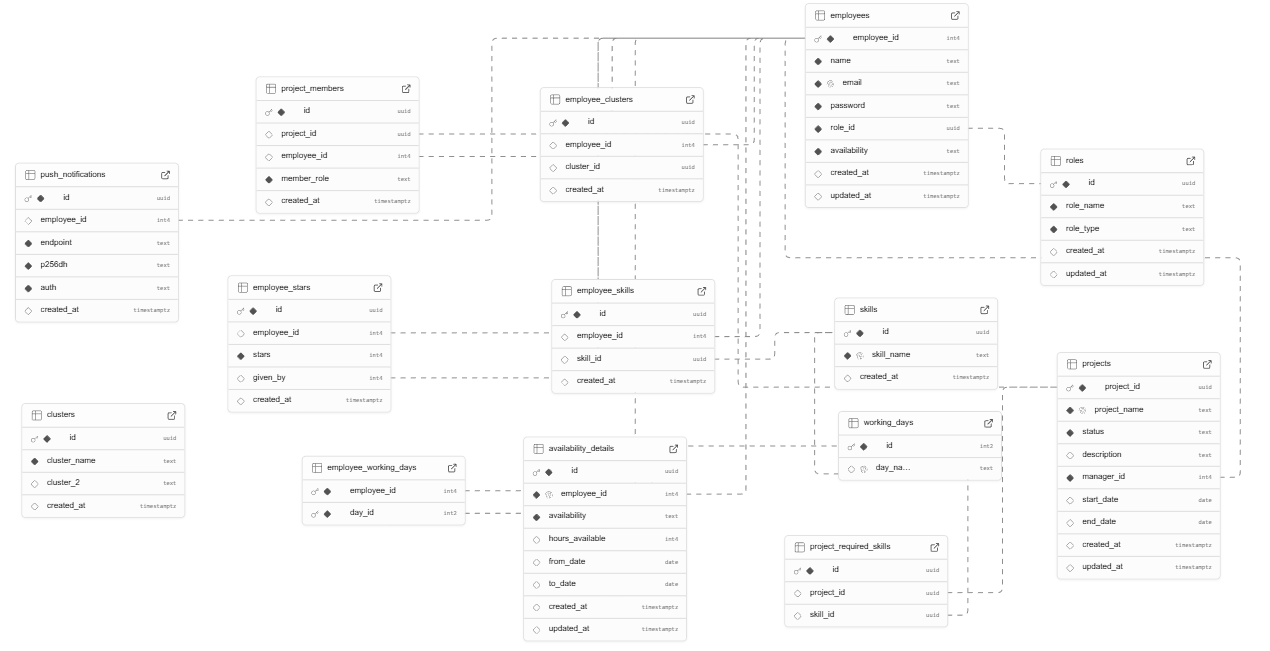
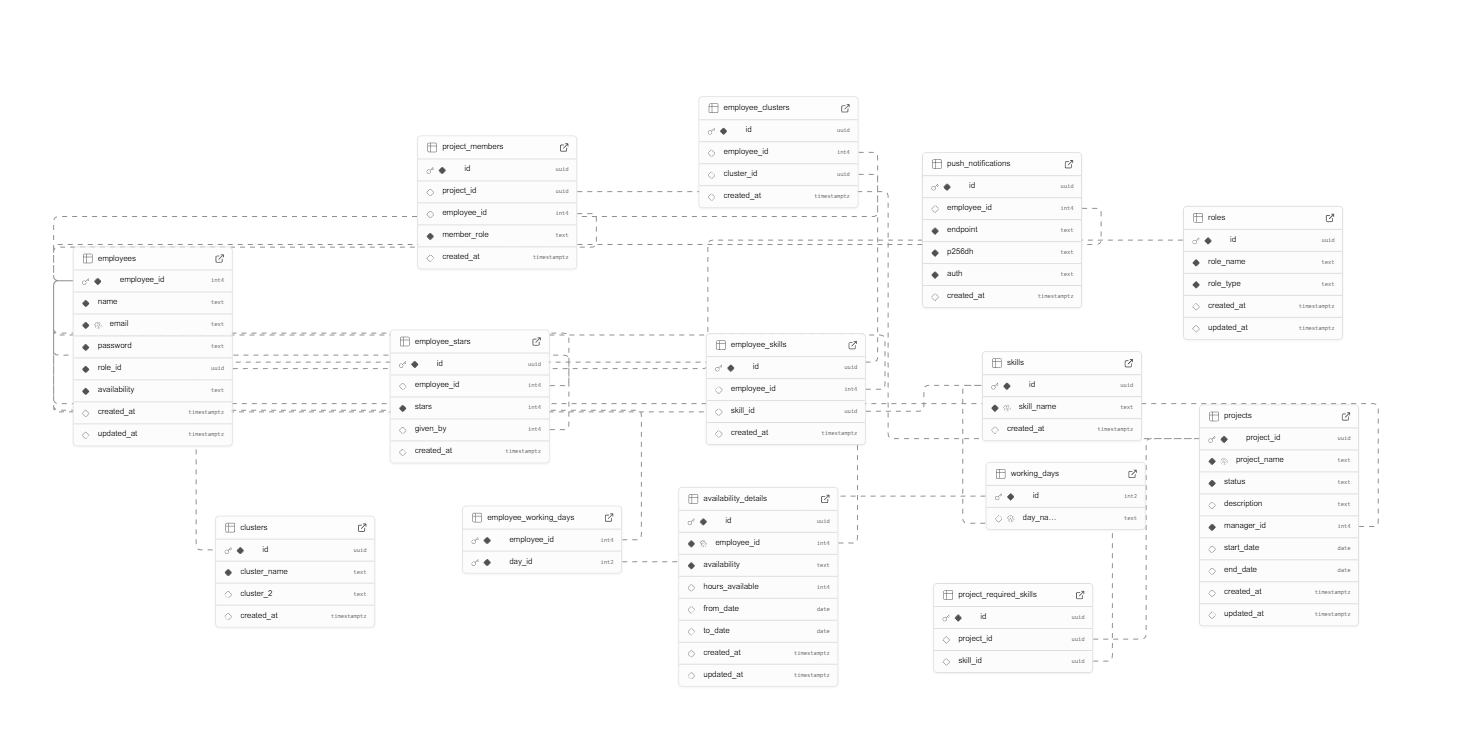
Frontend FInished

diff --git a/controllers/employeeController.js b/controllers/employeeController.js
@@ -1,4 +1,4 @@
-import supabase from "../db/supabaseClient.js";
+import supabase, { supabaseAdmin } from "../db/supabaseClient.js";
 import { sendNotificationToUser } from "./notificationController.js";
 
 /**
@@ -89,9 +89,11 @@ const transformEmployee = (emp) => {
 // GET ALL
 export const getAllEmployees = async (req, res) => {
   const { search = "", availability = "" } = req.query;
+  const client = supabaseAdmin || supabase;
+  
   try {
     // 1. Fetch basic info, roles, and availability
-    const { data: employees, error } = await supabase
+    const { data: employees, error } = await client
       .from('employees')
       .select(`
         *,
@@ -106,32 +108,32 @@ export const getAllEmployees = async (req, res) => {
     const empIds = employees.map(e => e.employee_id);
 
     // 2. Batch fetch clusters
-    const { data: ecData } = await supabase
+    const { data: ecData } = await client
       .from('employee_clusters')
       .select('employee_id, clusters(cluster_name)')
       .in('employee_id', empIds);
     
     // 3. Batch fetch skills
-    const { data: esData } = await supabase
+    const { data: esData } = await client
       .from('employee_skills')
       .select('employee_id, skills(skill_name)')
       .in('employee_id', empIds);
 
     // 4. Batch fetch stars (latest)
-    const { data: starsData } = await supabase
+    const { data: starsData } = await client
       .from('employee_stars')
       .select('employee_id, stars, created_at')
       .in('employee_id', empIds)
       .order('created_at', { ascending: false });
 
     // 5. Batch fetch working days
-    const { data: ewdData } = await supabase
+    const { data: ewdData } = await client
       .from('employee_working_days')
       .select('employee_id, working_days(day_name)')
       .in('employee_id', empIds);
 
     // 6. Batch fetch project memberships
-    const { data: pmData } = await supabase
+    const { data: pmData } = await client
       .from('project_members')
       .select('employee_id, member_role, projects(project_name)')
       .in('employee_id', empIds);
@@ -373,12 +375,19 @@ export const updateEmployeeStars = async (req, res) => {
 // GET DASHBOARD METRICS
 export const getDashboardMetrics = async (req, res) => {
   try {
-    // 1. Fetch employees
-    const { data: employees, error } = await supabase
+    const { range = 'All' } = req.query;
+
+    // 1. Fetch employees (Use Admin Client if available to bypass RLS for aggregate stats)
+    const client = supabaseAdmin || supabase;
+    
+    // Check if client is null (if key not in env and admin var is null)
+    if (!client) throw new Error("Supabase client not initialized");
+
+    const { data: employees, error } = await client
       .from('employees')
       .select(`
         *,
-        availability_details ( availability, hours_available )
+        availability_details ( availability, hours_available, from_date, to_date )
       `);
 
     if (error) throw error;
@@ -388,10 +397,10 @@ export const getDashboardMetrics = async (req, res) => {
 
     // 2. Fetch Roles
     const roleIds = [...new Set(employees.map(e => e.role_id).filter(Boolean))];
-    const { data: allRoles } = await supabase.from('roles').select('id, role_name').in('id', roleIds);
+    const { data: allRoles } = await client.from('roles').select('id, role_name, role_type').in('id', roleIds);
 
     // 3. Fetch Clusters
-    const { data: allClusters } = await supabase
+    const { data: allClusters } = await client
        .from('employee_clusters')
        .select('employee_id, clusters(cluster_name)')
        .in('employee_id', empIds);
@@ -407,19 +416,88 @@ export const getDashboardMetrics = async (req, res) => {
        };
     });
     
-    // Use enrichedEmps below instead of employees
     const empsToProcess = enrichedEmps;
 
-    if (error) throw error;
+    // 4. Fetch Projects for Stats
+    const { data: allProjects } = await client
+       .from('projects')
+       .select('status');
+
+    let openProjects = 0;
+    let ongoingProjects = 0;
+    
+    if (allProjects) {
+        allProjects.forEach(p => {
+             const s = (p.status || "").trim().toLowerCase();
+             if (s === 'open') openProjects++;
+             if (s === 'ongoing') ongoingProjects++;
+        });
+    }
 
     const metrics = {
       partialHoursDistribution: {},
       clusters: { "MEBM": 0, "M&T": 0, "S&PS Insitu": 0, "S&PS Exsitu": 0 },
       roles: {},
+      totalPeople: 0,
+      openProjectsCount: openProjects,
+      ongoingProjectsCount: ongoingProjects,
       totalPartialHours: 0,
       totalAvailableHours: 0,
       partialEmployeeCount: 0,
-      availableEmployeeCount: 0
+      availableEmployeeCount: 0,
+      occupiedEmployeeCount: 0
+    };
+
+    // --- Date Logic ---
+    const today = new Date();
+    today.setHours(0, 0, 0, 0);
+
+    let calcStart = new Date(today);
+    let calcEnd = null;
+
+    if (range === 'Daily') {
+        calcEnd = new Date(today);
+        calcEnd.setHours(23, 59, 59, 999);
+    } else if (range === 'Weekly') {
+        // End of current week (Sunday)
+        const day = today.getDay(); // 0 is Sun
+        const diff = 7 - day; // Days remaining till next Sunday (if today is Sun, diff=7? No, today.getDate() + (7-day))
+        // Actually, if today is Sunday (0), end is today. If today is Mon(1), end is +6.
+        // Let's standardise: Week ends on SUNDAY.
+        // If today is Sunday(0), we want today.
+        const d = new Date(today);
+        d.setDate(today.getDate() + (day === 0 ? 0 : 7 - day)); 
+        d.setHours(23, 59, 59, 999);
+        calcEnd = d;
+    } else if (range === 'Monthly') {
+        // Last day of current month
+        const d = new Date(today.getFullYear(), today.getMonth() + 1, 0);
+        d.setHours(23, 59, 59, 999);
+        calcEnd = d;
+    } else {
+        // 'All' or others: Default to just today's snapshot x 1 day? 
+        // Or specific requirements? 
+        // User didn't specify 'All', but logic implies 'All' usually shows total capacity/snapshot.
+        // We'll treat 'All' as a single day snapshot for consistency with previous logic, 
+        // OR distinct logic. Let's make 'All' behave like 'Daily' but maybe we don't multiply by duration? 
+        // Existing logic was just summing hours.
+        // Lets treat 'All' as 'Daily' (Snapshot) effectively.
+        calcEnd = new Date(today);
+        calcEnd.setHours(23, 59, 59, 999);
+    }
+
+    const countWorkingDays = (d1, d2) => {
+        if (d2 < d1) return 0;
+        let count = 0;
+        let current = new Date(d1);
+        while (current <= d2) {
+            const day = current.getDay();
+            if (day !== 0 && day !== 6) { // Not Sun(0) or Sat(6)
+                count++;
+            }
+            current.setDate(current.getDate() + 1);
+        }
+        return count;
     };
 
     empsToProcess.forEach(emp => {
@@ -432,20 +510,68 @@ export const getDashboardMetrics = async (req, res) => {
          else if (c) metrics.clusters[c] = (metrics.clusters[c] || 0) + 1;
        });
 
-       const avail = emp.availability;
-       if (avail === 'Partially Available') {
+       // EXCLUDE MANAGERS
+       const roleName = (r || "").trim().toLowerCase();
+       const roleType = (emp.roles?.role_type || "").trim().toLowerCase();
+
+       if (roleName === 'manager' || roleType === 'manager') return;
+
+       const availRaw = emp.availability || "";
+       const avail = availRaw.trim().toLowerCase();
+
+       if (avail === 'partially available') {
+          metrics.partialEmployeeCount++;
+          
           const det = emp.availability_details?.[0];
-          if (det && det.hours_available) {
-             const label = String(det.hours_available);
-             metrics.partialHoursDistribution[label] = (metrics.partialHoursDistribution[label] || 0) + 1;
-             metrics.totalPartialHours += det.hours_available;
-             metrics.partialEmployeeCount++;
+          // Determine generic hours if missing
+          const dailyHours = (det && det.hours_available) ? det.hours_available : 0; 
+          
+          // Calculate valid intersection
+          // Emp Range: from_date -> to_date
+          // Filter Range: calcStart -> calcEnd
+          let eStart = (det && det.from_date) ? new Date(det.from_date) : new Date(today); // Default to today if missing
+          let eEnd = (det && det.to_date) ? new Date(det.to_date) : new Date(calcEnd); // Default to end of range if missing
+
+          // Standardize
+          if(eStart < today) eStart = new Date(today);
+          
+          // Intersection
+          const start = eStart > calcStart ? eStart : calcStart;
+          const end = eEnd < calcEnd ? eEnd : calcEnd;
+
+          const days = countWorkingDays(start, end);
+          
+          if(dailyHours > 0 && days > 0) {
+              const label = String(dailyHours);
+              metrics.partialHoursDistribution[label] = (metrics.partialHoursDistribution[label] || 0) + 1;
+              metrics.totalPartialHours += (days * dailyHours);
           }
-       } else if (avail === 'Available') {
-          metrics.totalAvailableHours += 8;
+
+       } else if (avail === 'available') {
           metrics.availableEmployeeCount++;
+          const det = emp.availability_details?.[0];
+
+          // Same logic for Available? Usually "Available" implies 8h/day unless details say otherwise
+          // Usually "Available" doesn't have from/to dates in this system (implied indefinite).
+          // But if they DO have dates, respect them.
+          
+          let eStart = (det && det.from_date) ? new Date(det.from_date) : new Date(today);
+          let eEnd = (det && det.to_date) ? new Date(det.to_date) : new Date(calcEnd); // Indefinite -> till end of range
+
+          if(eStart < today) eStart = new Date(today);
+
+          const start = eStart > calcStart ? eStart : calcStart;
+          const end = eEnd < calcEnd ? eEnd : calcEnd;
+
+          const days = countWorkingDays(start, end);
+          metrics.totalAvailableHours += (days * 8);
+
+       } else {
+          metrics.occupiedEmployeeCount++;
        }
     });
+
+    metrics.totalPeople = metrics.availableEmployeeCount + metrics.partialEmployeeCount + metrics.occupiedEmployeeCount;
 
     res.json(metrics);
   } catch (err) {

diff --git a/controllers/projectController.js b/controllers/projectController.js
@@ -202,6 +202,12 @@ export const deleteProject = async (req, res) => {
     try {
         const { id } = req.params;
         
+        // Validate UUID
+        const uuidRegex = /^[0-9a-f]{8}-[0-9a-f]{4}-[0-9a-f]{4}-[0-9a-f]{4}-[0-9a-f]{12}$/i;
+        if (!id || !uuidRegex.test(id)) {
+            return res.status(400).json({ error: "Invalid Project ID Format" });
+        }
+
         // Cascading deletes should be handled by DB constraints (project_members, project_required_skills)
         const { error } = await supabase
             .from('projects')

diff --git a/db/supabaseClient.js b/db/supabaseClient.js
@@ -13,4 +13,8 @@ if (!supabaseUrl || !supabaseKey) {
 
 const supabase = createClient(supabaseUrl, supabaseKey);
 
+export const supabaseAdmin = process.env.SUPABASE_SERVICE_ROLE_KEY 
+  ? createClient(supabaseUrl, process.env.SUPABASE_SERVICE_ROLE_KEY)
+  : null;
+
 export default supabase;

diff --git a/README.md b/README.md
@@ -13,11 +13,13 @@ The WorkLoad Backend serves as the robust foundation for the Employee Availabili
   - `employees`: Core user data and credentials.
   - `roles`: RBAC definitions (`role_name`, `role_type`).
   - `clusters`: Organisational clusters.
-  - `skills` & `employee_skills`: Many-to-many skill mapping.
-  - `interests` & `employee_interests`: Many-to-many interest mapping.
-  - `projects` & `employee_projects`: Project history tracking.
-  - `availability`: Historical availability logs.
-  - `working_days`: Reference table for schedule calculations.
+  - `skills`: Skill master list.
+  - `projects`: Project details and status.
+  - `availability_details`: Detailed tracking of employee availability (hours, dates).
+  - `working_days`: Reference table for days of the week.
+  - **Junction Tables**: `employee_skills`, `employee_clusters`, `employee_working_days`, `project_members`.
+  - **Gamification**: `employee_stars` (tracking performance ratings).
+  - **Notifications**: `push_notifications` (storing VAPID subscriptions).
 
 ## 🚀 Tech Stack
 
